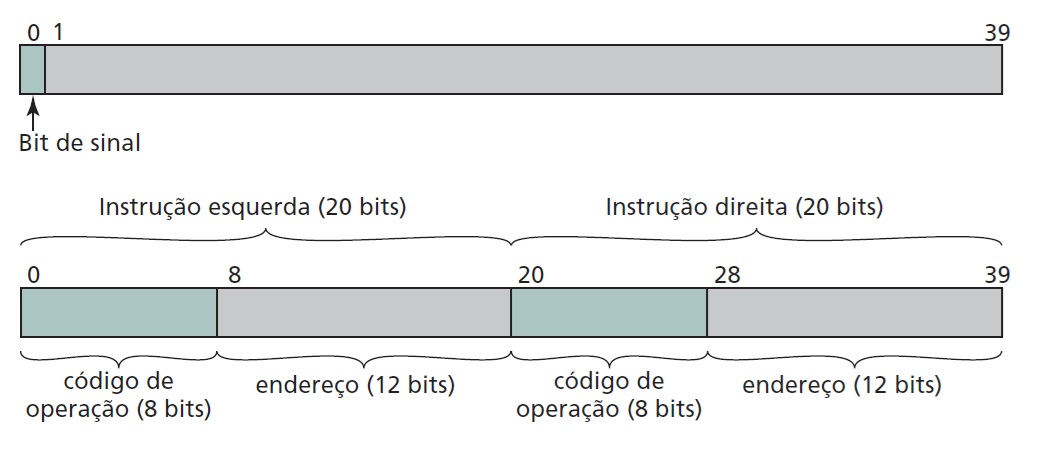
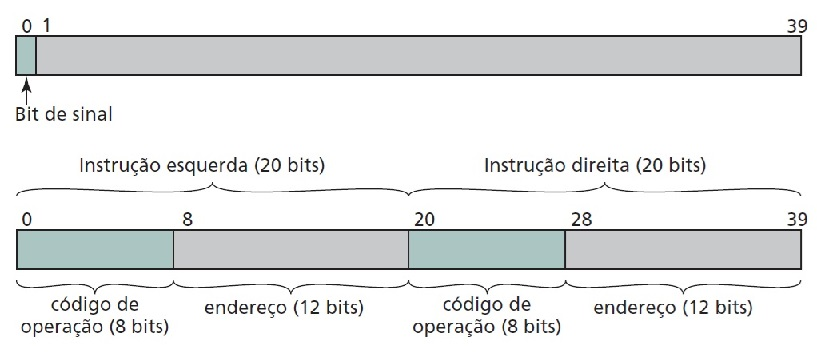
Ajuste 24.2

Changed region(s): [[0.0, 0.3972, 1.0, 0.9472], [0.0, 0.0306, 1.0, 0.2139], [0.0, 0.2444, 0.153, 0.3361]]

diff --git a/arq_aulas/arquitetura_computadores_cap1.md b/arq_aulas/arquitetura_computadores_cap1.md
@@ -59,7 +59,7 @@ Finalmente, o controle produzido pela UC é veiculado pelo chamado **barramento 
 
 ## 1.2 Visão detalhada do computador IAS
 
-A figura abaixo ilustra a organiza detalhada do computador IAS.
+A figura abaixo ilustra a organização detalhada do computador IAS.
 
 ![Estrutura do IAS](/arq_aulas/images/figura1_2.png)
 
@@ -101,16 +101,21 @@ Nem toda instrução do processador da máquina IAS requer um operando. Nesse ca
 
 ![Formato da linha de memória IAS](/arq_aulas/images/figura1_5.jpg)
 
-Figura 1.5 Formato da linha de memória IAS: acima, número; abaixo, par de instruções (fonte. Adaptado de Stallings, Arquitetura e Organização de Computadores)
+Figura 1.5 Formato da linha de memória IAS: acima, número; abaixo, par de instruções (fonte. Stallings, Arquitetura e Organização de Computadores)
+
+O ISA define os formatos de instruções, códigos de operação da instrução (opcodes), registradores, memória de dados e instrução; o efeito das instruções executadas nos registradores e na memória; e um algoritmo para o controle da execução das instruções. ISA é a arquitetura de conjunto de instrução (ISA — do inglês, *Instruction Set Architecture*). 
+
+Os atributos da camada ISA incluem o conjunto de instrução, o número de bits usados para representar vários tipos de dados (por exemplo, números, caracteres), mecanismos de E/S e técnicas para endereçamento de memória. 
 
 ### 1.3.2 Ciclo de instrução
 
-O programa consiste na execução das instruções armazenadas em memória.  
+A execução das tarefas do computador consiste na execução sucessiva das instruções armazenadas em memória, as quais constituem os programas armazenados. 
+
 As instruções são normalmente armazenadas em **posições de memória adjacentes** e **executadas sequencialmente**, a execução das instruções de um endereço é seguida da execução das instruções do endereço seguinte.  
+
 As instruções são executadas sincronizadamente. O **sincronismo** é dado pelos circuitos de controle.  
-Após a execução de cada instrução os registradores armazenam um valor. Os valores de cada elemento definem o **estado** da máquina.
-As etapas (microoperações) de execução de cada operação variam de acordo com cada instrução do programa.  
-O conjunto de microinstruções executadas define o chamado **ciclo de instrução**, que é composto por duas partes:
+
+Após a execução de cada instrução os registradores armazenam um valor. Os valores de cada elemento definem o **estado** da máquina. As etapas (microoperações) de execução de cada operação variam de acordo com cada instrução do programa.  O conjunto de microinstruções executadas define o chamado **ciclo de instrução**, que é composto por duas partes:
 
 - **Busca** do par de instruções
 - **Execução** das instruções
@@ -220,6 +225,48 @@ Figura 1.9 Forma da tabela do *set* de instruções da IAS
 | ---------------------- | --------------------------- | ------------- |
 | 0001 0010 | STOR M(X,8:19) | Substitui o campo de endereço da instrução à esquerda da posição de memória X (bits 0 a 19), definida pelo operando, pelos 12 bits mais à direita do conteúdo do acumulador |
 | 0000 1110 | JUMP M(X,28:39) | Substitui o campo de endereço da instrução à direita da posição de memória X (bits 20 a 39), definida pelo operando, pelos 12 bits mais à direita do conteúdo do acumulador |
+
+### 1.3.4 Linguagem de montagem (*assembly*)
+
+Uma linguagem de montagem pura é uma linguagem na qual cada declaração produz exatamente uma instrução de máquina. Em outras palavras, **há uma correspondência um-para-um entre instruções de máquina e declarações no programa de montagem (mnemônicos)**. Se cada linha no programa em linguagem de montagem contiver exatamente uma declaração e cada palavra de máquina contiver exatamente uma instrução de máquina, então um programa de montagem de n linhas produzirá um programa em linguagem de máquina de n instruções.
+
+A razão por que as pessoas usam linguagem de montagem, ao contrário de programação em linguagem de máquina (em binário ou hexadecimal), é que é muito mais fácil programar. A utilização de nomes simbólicos e endereços simbólicos em vez de binários ou hexadecimais faz uma enorme diferença. A maioria das pessoas pode se lembrar de que as abreviaturas para somar, subtrair, multiplicar e dividir são ADD, SUB, MUL e DIV, mas poucas conseguem se recordar dos valores numéricos correspondentes que a máquina usa. O programador de linguagem de montagem só precisa se lembrar dos nomes simbólicos porque o assembler os traduz para instruções de máquina.
+
+Na tabela do *set* de instruções da máquina IAS, a coluna **Representação simbólica** define as instruções correspondentes ao código binário da operação. O programa armazenado em memória constituído das instruções binárias é o chamado programa em **linguagem de máquina**. Admitiremos que o programa em linguagem de montagem correspondente será formado pela sua representação simbólica seguida do operando da instrução, **representado em hexadecimal**.
+
+Exemplo 1:
+
+```
+| Opcode | Operando | Comentários |
+| - | - | - |
+| LOAD M(X) | 0x00F | Transfere o conteúdo da posição de memória 0x00F para o ACC |
+| ADD M(X) | 0x010 | Soma o conteúdo da posição de memória 0x010 com o conteúdo do ACC |
+| STOR M(X) | 0x011 | Transfere o conteúdo do ACC para a posição de memória 0x011 |
+```
+
+Existem programas nos computadores responsáveis pela **tradução** de códigos de uma linguagem para outra. Quando a linguagem-fonte é, basicamente, uma representação simbólica para uma linguagem de máquina numérica, o tradutor é denominado **assembler (montador)** e a linguagem-fonte é denominada linguagem de montagem (linguagem *assembly*). 
+
+O código do exemplo 1 seria o código na linguagem de montagem do IAS referente ao seguinte código em linguagem de máquina
+
+```
+0000 0001 0000 0000 1111 0000 0101 0000 0001 0000
+0010 0001 0000 0001 0001
+```
+
+Na primeira linha do código em linguagem de máquina contém 40 bits porque é o número de bits armazenados em uma linha da máquina IAS. Correspondem às instruções `LOAD` E `ADD`. Na linha seguinte estão apresentados os 20 bits relativos à última instrução, `STOR`.
+
+Lembrando que cada linha está ocupando uma linha de endereços, que poderia ser indicada no código em *assembly* pela inclusão de um rótulo à tabela.
+
+
+```
+| Rótulo | Opcode | Operando | Comentários |
+| - | - | - | - |
+| Início: | LOAD M(X) | 0x00F | Transfere o conteúdo da posição de memória 0x00F para o ACC |
+| | ADD M(X) | 0x010 | Soma o conteúdo da posição de memória 0x010 com o conteúdo do ACC |
+| | STOR M(X) | 0x011 | Transfere o conteúdo do ACC para a posição de memória 0x011 |
+```
+
+O rótulo (*label*) indica o endereço da primeira linha de instruções de forma simbólica (Início). Obviamente o código armazenado ocupará uma posição na memória IAS, ou seja, entre os endereços 0x000 e 0x3FF (entre 0 e 1023, em hexadecimal).
 
 ___
 **[Home Conteúdo Arquitetura de Computadores](https://github.com/claytonjasilva/claytonjasilva.github.io/blob/main/arq_aulas.md)**   
